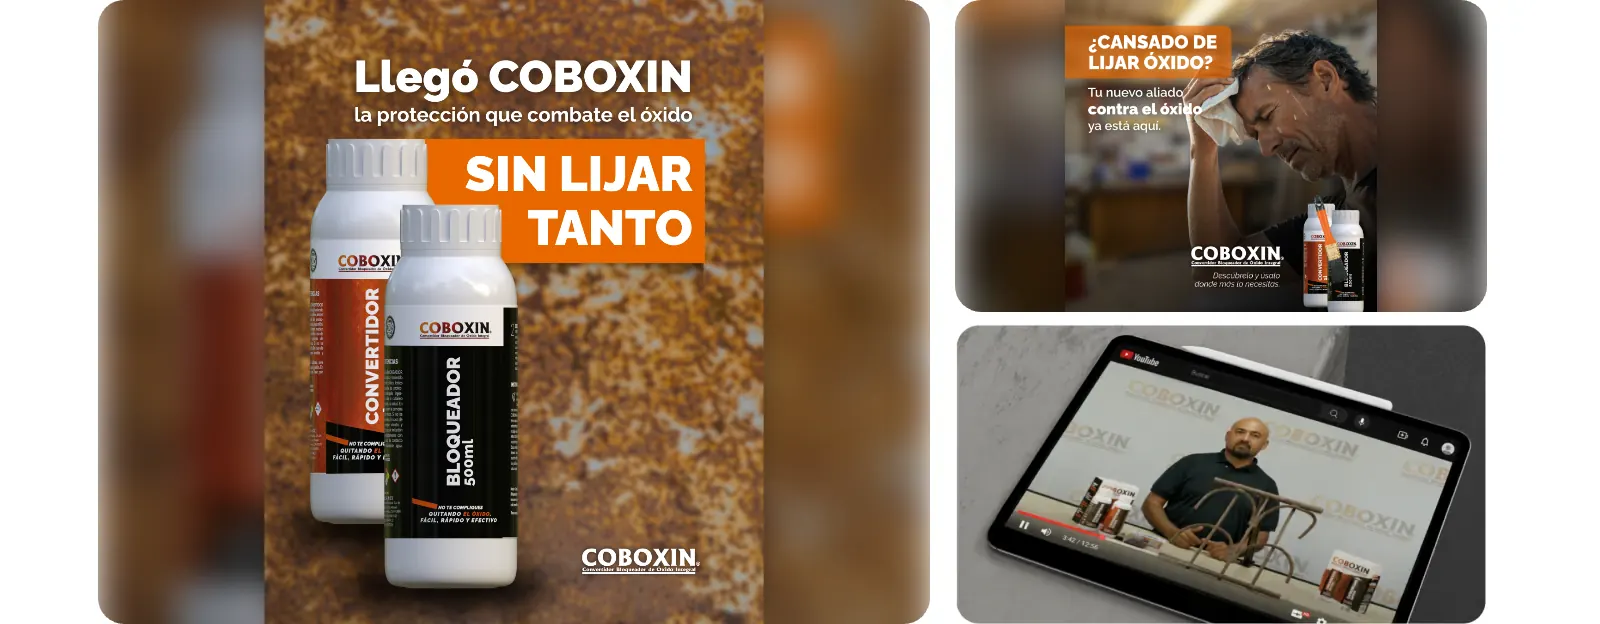
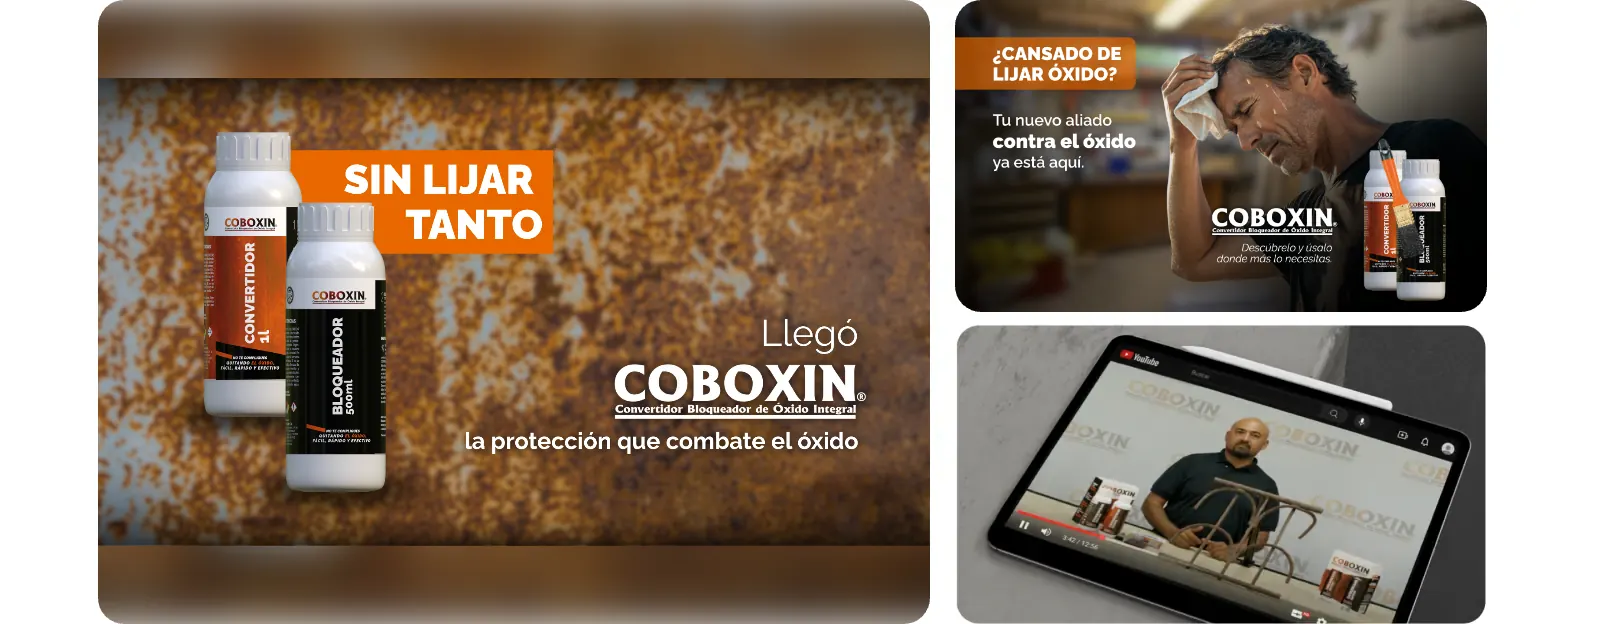
Coboxin: nuevas fotos horizontales en la galería

diff --git a/js/proyectos.js b/js/proyectos.js
@@ -14,7 +14,7 @@
     { slug: 'coboxin', name: 'Coboxin', tall: true, w: 420, tint: '#1aa7a1', at: '100% 100%', col: 1,
       services: ['Estrategia de marca', 'Branding', 'Diseño de packaging', 'Comercialización', 'Fotografía y video', 'Marketing Digital', 'Publicidad exterior', 'Diseño web', 'Campañas publicitarias en Meta Ads'],
       industry: 'Metalúrgica · Productos anticorrosivos<br>Industria química',
-      hero: ['coboxin-hero.webp', 555], mcrop: [6.06, 58.88, 0, 100], card: { box: [58.819, 14.83, 34.097, 72.144], client: 'Coboxin', industry: 'Metalúrgica · Productos anticorrosivos<br>Industria química', services: 'Estrategia de marca · Branding<br>Diseño de packaging · Comercialización<br>Fotografía y video · Marketing Digital<br>Publicidad exterior · Diseño web<br>Campañas publicitarias en Meta Ads' }, gallery: ['coboxin-gallery.webp?v=202610170946', 624], wide: ['coboxin-wide.webp', 600],
+      hero: ['coboxin-hero.webp', 555], mcrop: [6.06, 58.88, 0, 100], card: { box: [58.819, 14.83, 34.097, 72.144], client: 'Coboxin', industry: 'Metalúrgica · Productos anticorrosivos<br>Industria química', services: 'Estrategia de marca · Branding<br>Diseño de packaging · Comercialización<br>Fotografía y video · Marketing Digital<br>Publicidad exterior · Diseño web<br>Campañas publicitarias en Meta Ads' }, gallery: ['coboxin-gallery.webp?v=202610201104', 624], wide: ['coboxin-wide.webp', 600],
       challenge: '<b>COBOXIN</b> necesitaba algo más que una nueva imagen: <em>requería una estrategia</em> que le permitiera ingresar al mercado con una propuesta sólida y diferenciada.',
       challengeText: 'Desde la investigación del sector y el análisis de competidores hasta el desarrollo del empaque, la comunicación y los materiales comerciales, construimos una marca preparada para conectar con distribuidores y clientes desde su lanzamiento.',
       processLabel: 'El proceso',

diff --git a/servicios.html b/servicios.html
@@ -16,7 +16,7 @@ j=d.createElement(s),dl=l!='dataLayer'?'&l='+l:'';j.async=true;j.src=
 <meta name="description" content="Método Boreal: claridad, arquitectura de marca, lanzamiento y escalamiento. Consultoría, lanzamiento integral, mentorías, diseño web, campañas y redes sociales.">
 <meta name="theme-color" content="#221a3d">
 <link rel="icon" href="assets/fig/fullcolor.webp">
-<link rel="stylesheet" href="css/styles.css?v=202610191217">
+<link rel="stylesheet" href="css/styles.css?v=202610201104">
 <!-- precarga de fotos para que no aparezcan de golpe al hacer scroll -->
 <link rel="preload" as="image" href="assets/img/serv-norte.webp">
 <link rel="preload" as="image" href="assets/img/serv-blueprint.webp">
@@ -227,6 +227,6 @@ height="0" width="0" style="display:none;visibility:hidden"></iframe></noscript>
   </section>
 </main>
 
-<script src="js/main.js?v=202610191217"></script>
+<script src="js/main.js?v=202610201104"></script>
 </body>
 </html>

diff --git a/proyectos.html b/proyectos.html
@@ -16,7 +16,7 @@ j=d.createElement(s),dl=l!='dataLayer'?'&l='+l:'';j.async=true;j.src=
 <meta name="description" content="Conoce nuestro trabajo: proyectos donde integramos estrategia, dirección y ejecución para impulsar resultados reales.">
 <meta name="theme-color" content="#29224e">
 <link rel="icon" href="assets/fig/fullcolor.webp">
-<link rel="stylesheet" href="css/styles.css?v=202610191217">
+<link rel="stylesheet" href="css/styles.css?v=202610201104">
 </head>
 <body data-page="proyectos" class="on-dark">
 <!-- Google Tag Manager (noscript) -->
@@ -57,7 +57,7 @@ height="0" width="0" style="display:none;visibility:hidden"></iframe></noscript>
   </section>
 </main>
 
-<script src="js/main.js?v=202610191217"></script>
-<script src="js/proyectos.js?v=202610191217"></script>
+<script src="js/main.js?v=202610201104"></script>
+<script src="js/proyectos.js?v=202610201104"></script>
 </body>
 </html>

diff --git a/contacto.html b/contacto.html
@@ -16,7 +16,7 @@ j=d.createElement(s),dl=l!='dataLayer'?'&l='+l:'';j.async=true;j.src=
 <meta name="description" content="Cuéntanos de tu proyecto. Agenda una sesión estratégica con Karen Santiago y el equipo de Boreal. Veracruz, Xalapa y todo México.">
 <meta name="theme-color" content="#2a1f55">
 <link rel="icon" href="assets/fig/fullcolor.webp">
-<link rel="stylesheet" href="css/styles.css?v=202610191217">
+<link rel="stylesheet" href="css/styles.css?v=202610201104">
 </head>
 <body data-page="contacto" class="header-solid">
 <!-- Google Tag Manager (noscript) -->
@@ -91,6 +91,6 @@ height="0" width="0" style="display:none;visibility:hidden"></iframe></noscript>
   </section>
 </main>
 
-<script src="js/main.js?v=202610191217"></script>
+<script src="js/main.js?v=202610201104"></script>
 </body>
 </html>

diff --git a/sesion-norte.html b/sesion-norte.html
@@ -16,7 +16,7 @@ j=d.createElement(s),dl=l!='dataLayer'?'&l='+l:'';j.async=true;j.src=
 <meta name="description" content="Sesión estratégica 1:1 de 90 minutos con Karen Santiago. Claridad para definir el siguiente paso de tu marca. Inversión $6,500 MXN.">
 <meta name="theme-color" content="#16102b">
 <link rel="icon" href="assets/fig/fullcolor.webp">
-<link rel="stylesheet" href="css/styles.css?v=202610191217">
+<link rel="stylesheet" href="css/styles.css?v=202610201104">
 </head>
 <body data-page="sesion" class="on-dark">
 <!-- Google Tag Manager (noscript) -->
@@ -185,6 +185,6 @@ height="0" width="0" style="display:none;visibility:hidden"></iframe></noscript>
   </div>
 </div>
 
-<script src="js/main.js?v=202610191217"></script>
+<script src="js/main.js?v=202610201104"></script>
 </body>
 </html>

diff --git a/borealizate.html b/borealizate.html
@@ -16,7 +16,7 @@ j=d.createElement(s),dl=l!='dataLayer'?'&l='+l:'';j.async=true;j.src=
 <meta name="description" content="Hay empresas que necesitan publicidad. Otras necesitan claridad para saber hacia dónde ir. Conoce a Karen Santiago y al equipo de Boreal.">
 <meta name="theme-color" content="#221a3d">
 <link rel="icon" href="assets/fig/fullcolor.webp">
-<link rel="stylesheet" href="css/styles.css?v=202610191217">
+<link rel="stylesheet" href="css/styles.css?v=202610201104">
 </head>
 <body data-page="borealizate">
 <!-- Google Tag Manager (noscript) -->
@@ -112,6 +112,6 @@ height="0" width="0" style="display:none;visibility:hidden"></iframe></noscript>
   </section>
 </main>
 
-<script src="js/main.js?v=202610191217"></script>
+<script src="js/main.js?v=202610201104"></script>
 </body>
 </html>

diff --git a/index.html b/index.html
@@ -17,7 +17,7 @@ j=d.createElement(s),dl=l!='dataLayer'?'&l='+l:'';j.async=true;j.src=
 <meta name="theme-color" content="#221a3d">
 <link rel="icon" href="assets/fig/fullcolor.webp">
 <link rel="preload" href="assets/fonts/CircularStd-Bold.otf" as="font" type="font/otf" crossorigin>
-<link rel="stylesheet" href="css/styles.css?v=202610191217">
+<link rel="stylesheet" href="css/styles.css?v=202610201104">
 </head>
 <body data-page="home">
 <!-- Google Tag Manager (noscript) -->
@@ -244,6 +244,6 @@ height="0" width="0" style="display:none;visibility:hidden"></iframe></noscript>
   </section>
 </main>
 
-<script src="js/main.js?v=202610191217"></script>
+<script src="js/main.js?v=202610201104"></script>
 </body>
 </html>
